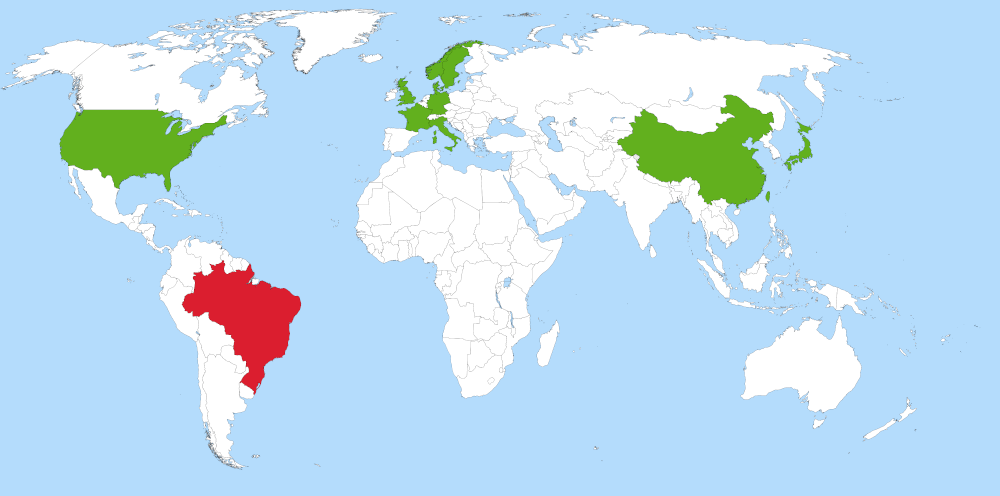
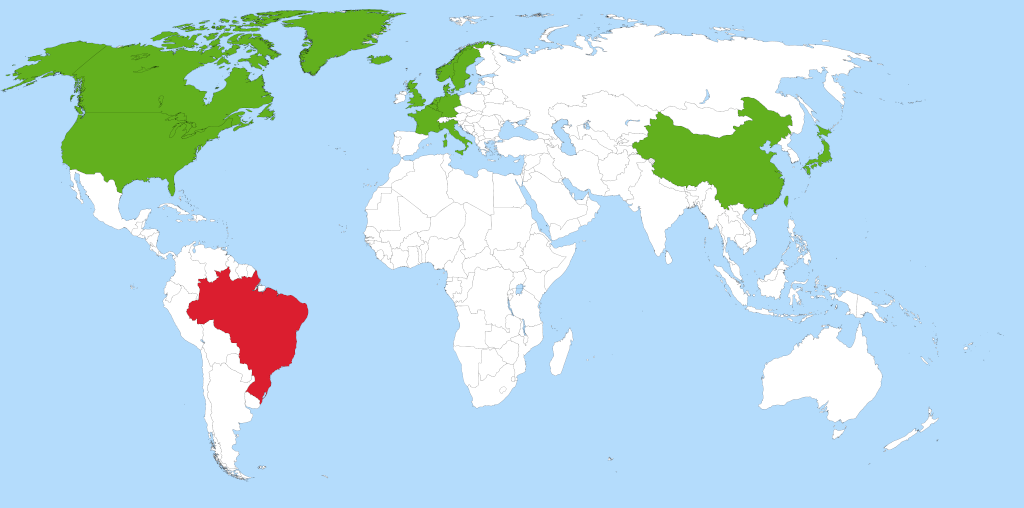
Update website

diff --git a/author/alumni/index.html b/author/alumni/index.html
@@ -737,6 +737,7 @@
 	<li>Adalberto Farias</li>
 	<li>Adnan Sherif</li>
 	<li>Adolfo Almeida Duran</li>
+	<li>Alexandre Correia</li>
 	<li>Alexandre Mota</li>
 	<li>André Didier</li>
 	<li>Cristiano Bertolini</li>
@@ -754,6 +755,7 @@
 	<li>Roberta Vieira</li>	
 	<li>Sidney Nogueira</li>
 	<li>Tarciana Silva</li>
+	<li>Thiago Mael de Castro</li>
 </ul>
 <p><b>MSc students</b></p>
 <ul>
@@ -791,6 +793,8 @@
 	<li>Robson Silva</li>
 	<li>Rodrigo Ramos</li>
 	<li>Sidney Nogueira</li>
+	<li>Thayonara Alves</li>
+	<li>Thiago Mael de Castro</li>	
 	<li>Tiago Massoni</li>
 	<li>Virgínia Cordeiro</li>
 	<li>Vitor Braga</li>

diff --git a/collaborations/index.html b/collaborations/index.html
@@ -760,12 +760,16 @@
 <div align="justify"><b><font color="#db1e2f">CIn</font>-<font color="#62b01e">TRUST</font></b> is a research group located in Brazil with national and international collaborations, both in academia and industry. The following map highlights our past and current collaborations around the world.</div>
 <br>
 <div align="justify"><b>Countries</b>: 
+Belgium,
+Canada,
 China,
 Denmark,
 France,
 Germany,
 Italy,
 Japan,
+Luxembourg,
+Netherlands,
 Norway,
 Singapore,
 Sweden,

diff --git a/author/current-students/index.html b/author/current-students/index.html
@@ -737,6 +737,7 @@
 	<li>Jacinto Reis</li>
 	<li>Joabe Jesus Júnior</li>
 	<li>Rafaela Almeida</li>
+	<li>Thayonara Alves</li>	
 </ul>
 <p><b>MSc students</b></p>
 <ul>

diff --git a/author/leopoldo-teixeira/index.html b/author/leopoldo-teixeira/index.html
@@ -815,6 +815,8 @@
           
           <li>Formal methods</li>
           
+          <li>Software testing</li>
+          
         </ul>
       </div>
       
